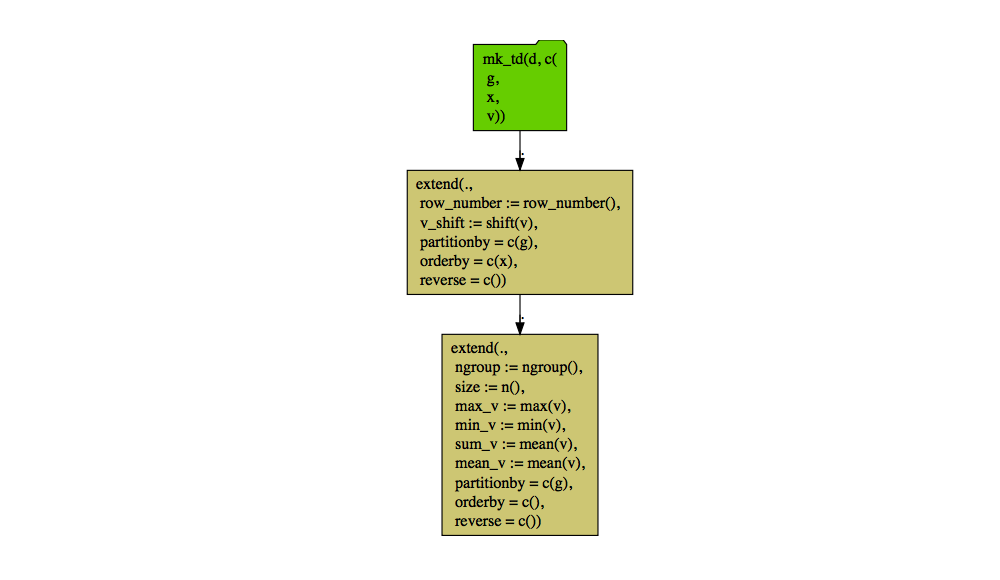
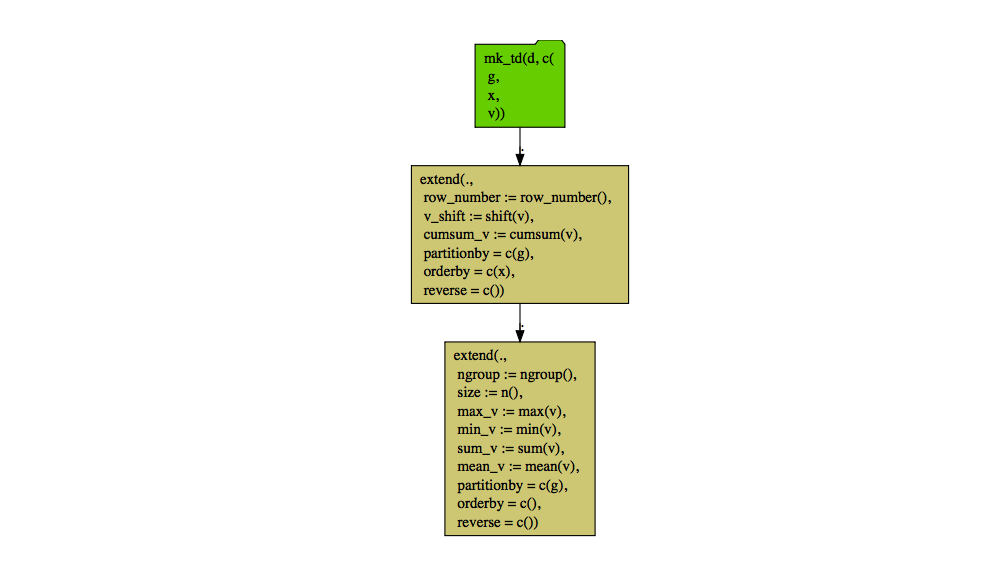
fix sum

Changed region(s): [[0.403, 0.0621, 0.651, 0.5276], [0.434, 0.5586, 0.62, 0.931]]

diff --git a/Examples/WindowFunctions/WindowFunctions.md b/Examples/WindowFunctions/WindowFunctions.md
@@ -62,6 +62,7 @@ ops <- table_description %.>%
   extend(., 
          row_number := row_number(),
          v_shift := shift(v),
+         cumsum_v := cumsum(v),
          orderby = 'x',
          partitionby = 'g') %.>%
   extend(., 
@@ -69,7 +70,7 @@ ops <- table_description %.>%
          size := n(),
          max_v := max(v),
          min_v := min(v),
-         sum_v := mean(v),
+         sum_v := sum(v),
          mean_v := mean(v),
          partitionby = 'g') 
 
@@ -78,14 +79,19 @@ d %.>%
   knitr::kable(.)
 ```
 
-| g | x |  v | row\_number | v\_shift | ngroup | size | max\_v | min\_v | sum\_v | mean\_v |
-| :- | -: | -: | ----------: | -------: | -----: | ---: | -----: | -----: | -----: | ------: |
-| a | 1 | 10 |           1 |       NA |      1 |    1 |     10 |     10 |     10 |      10 |
-| b | 4 | 40 |           1 |       NA |      2 |    2 |     50 |     40 |     45 |      45 |
-| b | 5 | 50 |           2 |       40 |      2 |    2 |     50 |     40 |     45 |      45 |
-| c | 7 | 70 |           1 |       NA |      3 |    3 |     90 |     70 |     80 |      80 |
-| c | 8 | 80 |           2 |       70 |      3 |    3 |     90 |     70 |     80 |      80 |
-| c | 9 | 90 |           3 |       80 |      3 |    3 |     90 |     70 |     80 |      80 |
+| g | x |  v | row\_number | v\_shift | cumsum\_v | ngroup | size | max\_v | min\_v | sum\_v | mean\_v |
+| :- | -: | -: | ----------: | -------: | --------: | -----: | ---: | -----: | -----: | -----: | ------: |
+| a | 1 | 10 |           1 |       NA |        10 |      1 |    1 |     10 |     10 |     10 |      10 |
+| b | 4 | 40 |           1 |       NA |        40 |      2 |    2 |     50 |     40 |     90 |      45 |
+| b | 5 | 50 |           2 |       40 |        90 |      2 |    2 |     50 |     40 |     90 |      45 |
+| c | 7 | 70 |           1 |       NA |        70 |      3 |    3 |     90 |     70 |    240 |      80 |
+| c | 8 | 80 |           2 |       70 |       150 |      3 |    3 |     90 |     70 |    240 |      80 |
+| c | 9 | 90 |           3 |       80 |       240 |      3 |    3 |     90 |     70 |    240 |      80 |
+
+Note: we are taking care in separating opeations beween the ordered
+block and un-ordered block. In databases, the presence of an order
+constraint in the window function often switches the operation to a
+cumulative mode.
 
 One of the benefits of `rquery` is the commands are saved in an object.
 
@@ -100,6 +106,7 @@ cat(format(ops))
     ##  extend(.,
     ##   row_number := row_number(),
     ##   v_shift := shift(v),
+    ##   cumsum_v := cumsum(v),
     ##   partitionby = c('g'),
     ##   orderby = c('x'),
     ##   reverse = c()) %.>%
@@ -108,7 +115,7 @@ cat(format(ops))
     ##   size := n(),
     ##   max_v := max(v),
     ##   min_v := min(v),
-    ##   sum_v := mean(v),
+    ##   sum_v := sum(v),
     ##   mean_v := mean(v),
     ##   partitionby = c('g'),
     ##   orderby = c(),
@@ -130,8 +137,8 @@ large scale SQL such as PostgreSQL, Apache Spark, or Google Big Query).
 For a simple demonstration we will use small-scale SQL as realized in
 SQLite.
 
-Note: we are not demonstrating `shift` in the `R` `SQLite` example.
-However the [`Python` `SQLite`
+Note: we are not demonstrating `shift` or `cumsum` in the `R` `SQLite`
+example. However the [`Python` `SQLite`
 example](https://github.com/WinVector/data_algebra/blob/master/Examples/WindowFunctions/WindowFunctions.md)
 does have include this function.
 
@@ -147,6 +154,7 @@ ops_db <- table_description %.>%
   extend(., 
          row_number := row_number(),
          #v_shift := shift(v),
+         #cumsum_v := cumsum(v),
          orderby = 'x',
          partitionby = 'g') %.>%
   extend(., 
@@ -154,7 +162,7 @@ ops_db <- table_description %.>%
          size := n(),
          max_v := max(v),
          min_v := min(v),
-         sum_v := mean(v),
+         sum_v := sum(v),
          mean_v := mean(v),
          partitionby = 'g') 
 
@@ -180,7 +188,7 @@ cat(sql1)
     ##  COUNT ( 1 ) OVER (  PARTITION BY `g` ) AS `size`,
     ##  max ( `v` ) OVER (  PARTITION BY `g` ) AS `max_v`,
     ##  min ( `v` ) OVER (  PARTITION BY `g` ) AS `min_v`,
-    ##  AVG ( `v` ) OVER (  PARTITION BY `g` ) AS `sum_v`,
+    ##  sum ( `v` ) OVER (  PARTITION BY `g` ) AS `sum_v`,
     ##  AVG ( `v` ) OVER (  PARTITION BY `g` ) AS `mean_v`
     ## FROM (
     ##  SELECT
@@ -195,8 +203,8 @@ cat(sql1)
     ##    `v`
     ##   FROM
     ##    `d`
-    ##   ) tsql_42207674840487243953_0000000000
-    ##  ) tsql_42207674840487243953_0000000001
+    ##   ) tsql_66217597165845365095_0000000000
+    ##  ) tsql_66217597165845365095_0000000001
 
 And we can execute this SQL either to materialize a remote result (which
 involves no data motion, as we send the SQL commands to the database,
@@ -212,11 +220,11 @@ knitr::kable(res1_db)
 | g | x |  v | row\_number | size | max\_v | min\_v | sum\_v | mean\_v |
 | :- | -: | -: | ----------: | ---: | -----: | -----: | -----: | ------: |
 | a | 1 | 10 |           1 |    1 |     10 |     10 |     10 |      10 |
-| b | 4 | 40 |           1 |    2 |     50 |     40 |     45 |      45 |
-| b | 5 | 50 |           2 |    2 |     50 |     40 |     45 |      45 |
-| c | 7 | 70 |           1 |    3 |     90 |     70 |     80 |      80 |
-| c | 8 | 80 |           2 |    3 |     90 |     70 |     80 |      80 |
-| c | 9 | 90 |           3 |    3 |     90 |     70 |     80 |      80 |
+| b | 4 | 40 |           1 |    2 |     50 |     40 |     90 |      45 |
+| b | 5 | 50 |           2 |    2 |     50 |     40 |     90 |      45 |
+| c | 7 | 70 |           1 |    3 |     90 |     70 |    240 |      80 |
+| c | 8 | 80 |           2 |    3 |     90 |     70 |    240 |      80 |
+| c | 9 | 90 |           3 |    3 |     90 |     70 |    240 |      80 |
 
 Notice we didn’t calculate the group-id `rgroup` in the `SQL` version.
 This is because this is a much less common window function (and not
@@ -317,6 +325,7 @@ all_ops <- id_ops_b %.>%
   extend(., 
          row_number := row_number(),
          #v_shift := shift(v),
+         #cumsum_v := cumsum(v),
          orderby = 'x',
          partitionby = 'g') %.>%
   extend(., 
@@ -324,7 +333,7 @@ all_ops <- id_ops_b %.>%
          size := n(),
          max_v := max(v),
          min_v := min(v),
-         sum_v := mean(v),
+         sum_v := sum(v),
          mean_v := mean(v),
          partitionby = 'g') 
 
@@ -346,11 +355,11 @@ d %.>%
 | g |  v | x | ngroup | row\_number | size | max\_v | min\_v | sum\_v | mean\_v |
 | :- | -: | -: | -----: | ----------: | ---: | -----: | -----: | -----: | ------: |
 | a | 10 | 1 |      1 |           1 |    1 |     10 |     10 |     10 |      10 |
-| b | 40 | 4 |      2 |           1 |    2 |     50 |     40 |     45 |      45 |
-| b | 50 | 5 |      2 |           2 |    2 |     50 |     40 |     45 |      45 |
-| c | 70 | 7 |      3 |           1 |    3 |     90 |     70 |     80 |      80 |
-| c | 80 | 8 |      3 |           2 |    3 |     90 |     70 |     80 |      80 |
-| c | 90 | 9 |      3 |           3 |    3 |     90 |     70 |     80 |      80 |
+| b | 40 | 4 |      2 |           1 |    2 |     50 |     40 |     90 |      45 |
+| b | 50 | 5 |      2 |           2 |    2 |     50 |     40 |     90 |      45 |
+| c | 70 | 7 |      3 |           1 |    3 |     90 |     70 |    240 |      80 |
+| c | 80 | 8 |      3 |           2 |    3 |     90 |     70 |    240 |      80 |
+| c | 90 | 9 |      3 |           3 |    3 |     90 |     70 |    240 |      80 |
 
 Or in the database (via automatic `SQL` generation).
 
@@ -363,11 +372,11 @@ all_ops %.>%
 | g | x |  v | ngroup | row\_number | size | max\_v | min\_v | sum\_v | mean\_v |
 | :- | -: | -: | -----: | ----------: | ---: | -----: | -----: | -----: | ------: |
 | a | 1 | 10 |      1 |           1 |    1 |     10 |     10 |     10 |      10 |
-| b | 4 | 40 |      2 |           1 |    2 |     50 |     40 |     45 |      45 |
-| b | 5 | 50 |      2 |           2 |    2 |     50 |     40 |     45 |      45 |
-| c | 7 | 70 |      3 |           1 |    3 |     90 |     70 |     80 |      80 |
-| c | 8 | 80 |      3 |           2 |    3 |     90 |     70 |     80 |      80 |
-| c | 9 | 90 |      3 |           3 |    3 |     90 |     70 |     80 |      80 |
+| b | 4 | 40 |      2 |           1 |    2 |     50 |     40 |     90 |      45 |
+| b | 5 | 50 |      2 |           2 |    2 |     50 |     40 |     90 |      45 |
+| c | 7 | 70 |      3 |           1 |    3 |     90 |     70 |    240 |      80 |
+| c | 8 | 80 |      3 |           2 |    3 |     90 |     70 |    240 |      80 |
+| c | 9 | 90 |      3 |           3 |    3 |     90 |     70 |    240 |      80 |
 
 ``` r
 # clean up
